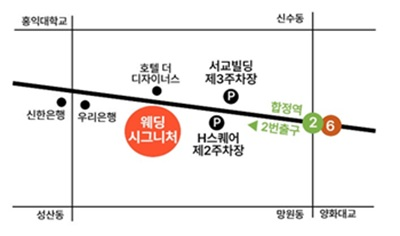
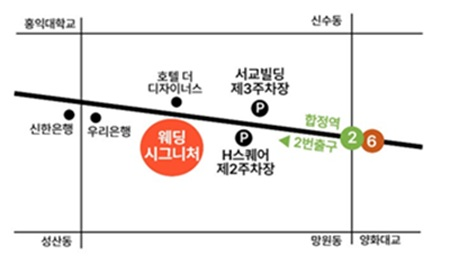
feat: 약도 크기 조정

diff --git a/style.css b/style.css
@@ -425,13 +425,19 @@ summary.more-btn::after {
 }
 
 
+/* 이미지 태그에 직접 붙는 클래스 */
 .map-info {
-  display: flex;              /* 가운데 정렬을 위해 flex 사용 */
-  justify-content: center;    /* 가로 가운데 */
-  align-items: center;        /* 세로 가운데 */
-  width: 100%;                /* 부모 영역 가득 */
-  position: relative;         /* 테두리 위치 기준 */
+  display: block;
+  width: 115%;           /* 부모보다 약간 크게 */
+  max-width: none;
+  height: auto;
+  transform: translateX(-7.5%); /* 가운데 정렬 보정 */
+  border-radius: 8px;
+  box-sizing: border-box;
+  opacity: 0.9;
 }
+
+
 
 .map-info img {
   display: block;

diff --git a/index.html b/index.html
@@ -184,7 +184,9 @@ https://somchae.wedding" />
 제3주차장: 서교빌딩 주차장
             
 * 내방하시는 차량은 [건물 정문]에서 주차 안내를 받으시기 바랍니다.<br/>
-            <img src="images/wedding-map.jpg" class="map-info">
+            <div class="fullbleed">
+            <img class="map-info" img src="images/wedding-map.jpg" alt="">
+              </div>
           </div>
         </div>
       </div>
